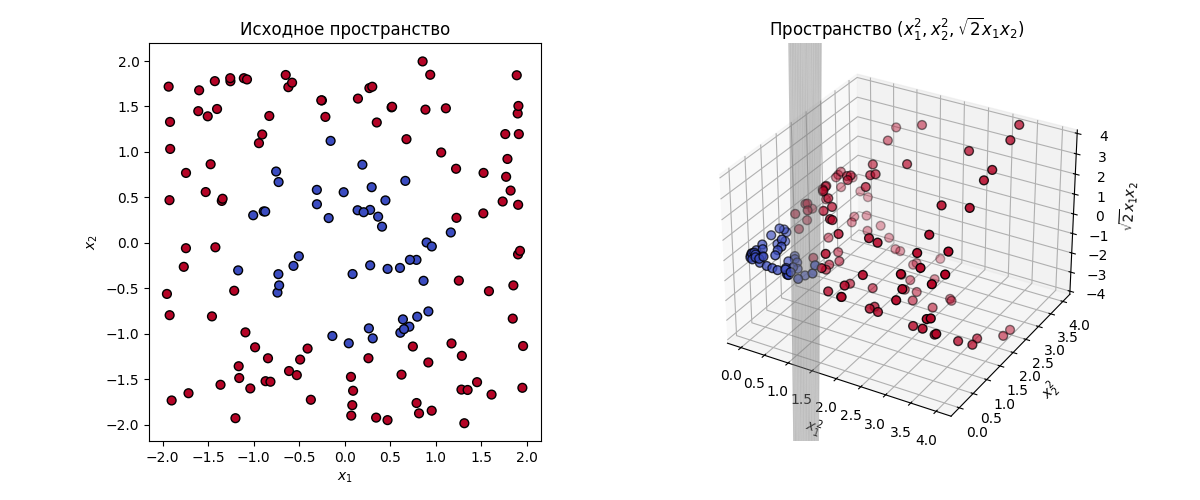
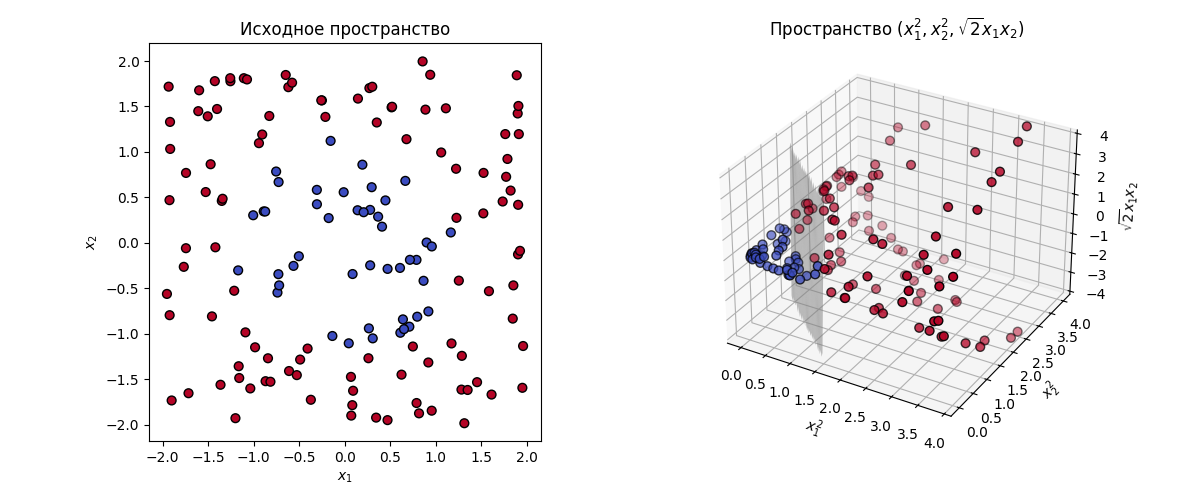
fix hyperplane drawing

diff --git a/machlearn/examples/machlearn_svm_dimension_increase.py b/machlearn/examples/machlearn_svm_dimension_increase.py
@@ -40,21 +40,19 @@ ax2.set_ylabel("$x_2^2$")
 ax2.set_zlabel("$\\sqrt{2}x_1x_2$")
 
 # --- Плоскость разделения ---
-xx, yy = np.meshgrid(np.linspace(0, 4, 50), np.linspace(0, 4, 50))
+xx, yy = np.meshgrid(np.linspace(0, 2, 400), np.linspace(0, 2, 400))
 w = clf.coef_[0]
 b = clf.intercept_[0]
 zz = (-w[0] * xx - w[1] * yy - b) / w[2]
 
-# Маска по допустимому диапазону z
-z_min, z_max = -19, 19
-zz_masked = np.ma.masked_outside(zz, z_min, z_max)
+z_display_min, z_display_max = -4, 4
+mask = (zz >= z_display_min) & (zz <= z_display_max)
+xx_masked = np.ma.masked_where(~mask, xx)
+yy_masked = np.ma.masked_where(~mask, yy)
+zz_masked = np.ma.masked_where(~mask, zz)
 
-# Построение поверхности
-ax2.plot_surface(xx, yy, zz_masked, alpha=0.5, color='gray')
-
-# Ограничение осей z
-ax2.set_zlim(-4, 4)
-
+ax2.plot_surface(xx_masked, yy_masked, zz_masked, alpha=0.6, color='gray')
+ax2.set_zlim(z_display_min, z_display_max)
 
 plt.tight_layout()
 try:
